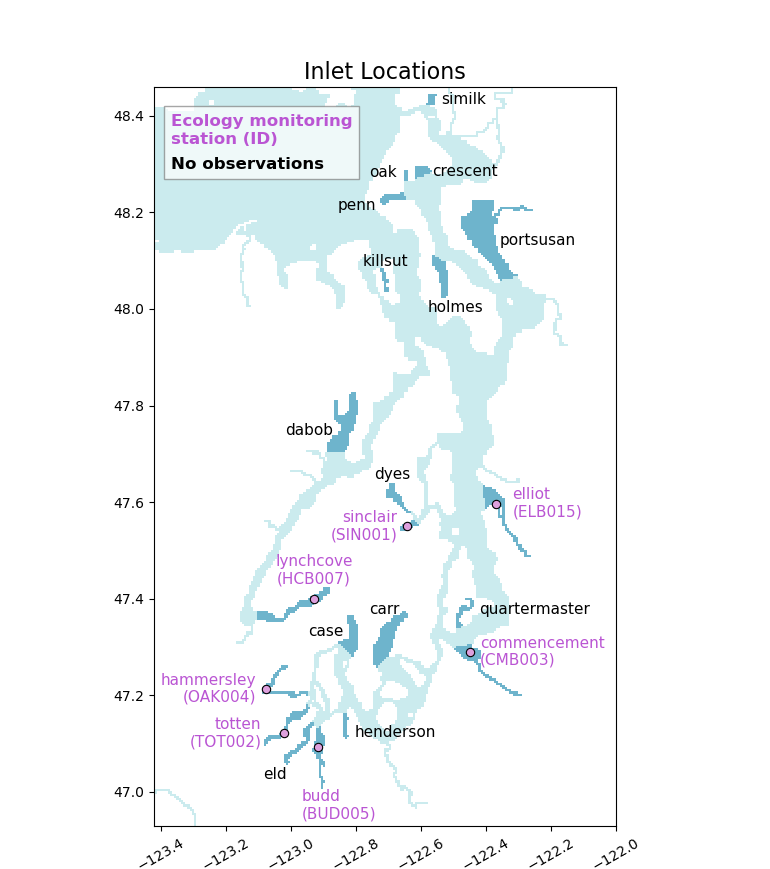
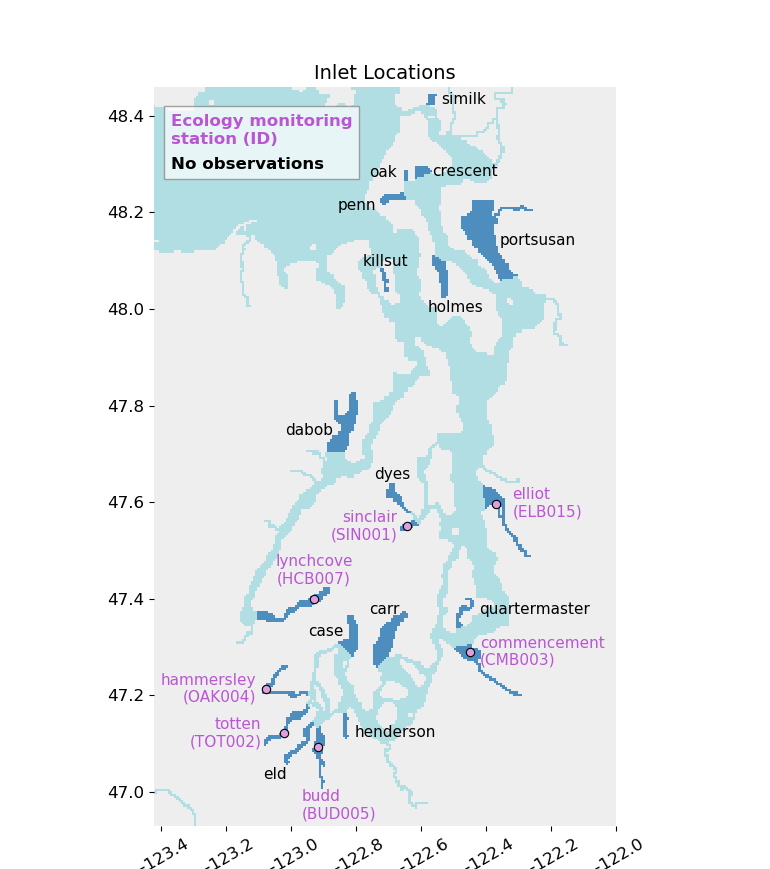
figures for thesis

diff --git a/plotting/2014_2019_DO/Puget_Sound_volume.py b/plotting/2014_2019_DO/Puget_Sound_volume.py
@@ -1,0 +1,88 @@
+
+# import things
+from subprocess import Popen as Po
+from subprocess import PIPE as Pi
+from matplotlib.markers import MarkerStyle
+import matplotlib.dates as mdates
+import numpy as np
+import xarray as xr
+import csv
+from datetime import datetime, timedelta
+from matplotlib.dates import DateFormatter
+from matplotlib.dates import MonthLocator
+import matplotlib.patches as patches
+from matplotlib.offsetbox import (OffsetImage, AnnotationBbox)
+import matplotlib.image as image
+import pandas as pd
+import cmocean
+import matplotlib.pylab as plt
+from mpl_toolkits.axes_grid1 import make_axes_locatable
+import matplotlib.patheffects as PathEffects
+import pinfo
+
+from lo_tools import Lfun, zfun, zrfun
+from lo_tools import plotting_functions as pfun
+
+import sys
+from pathlib import Path
+pth = Path(__file__).absolute().parent.parent.parent.parent / 'LO' / 'pgrid'
+if str(pth) not in sys.path:
+    sys.path.append(str(pth))
+import gfun
+
+Gr = gfun.gstart()
+
+Ldir = Lfun.Lstart()
+
+##############################################################
+##                       USER INPUTS                        ##
+##############################################################
+
+remove_straits = True
+
+# which  model run to look at?
+gtagex = 'cas7_t0_x4b' # long hindcast (anthropogenic)
+
+##############################################################
+##              CALCULATE PUGET SOUND VOLUME                ##
+##############################################################
+
+# get percent hypoxic volume
+fp = Ldir['LOo'] / 'extract' / gtagex / 'box' / ('pugetsoundDO_2013.01.01_2013.12.31.nc')
+ds = xr.open_dataset(fp)
+if remove_straits:
+        print('    Removing Straits...')
+        lat_threshold = 48.14
+        lon_threshold = -122.76
+        # Create a mask for latitudes and longitudes in the Straits
+        mask = (ds['lat_rho'] > lat_threshold) & (ds['lon_rho'] < lon_threshold)
+        # Expand mask dimensions to match 'oxygen' dimensions
+        expanded_mask = mask.expand_dims(ocean_time=len(ds['ocean_time']), s_rho=len(ds['s_rho']))
+        # Apply the mask to the 'oxygen' variable
+        ds['z_w'] = xr.where(expanded_mask, np.nan, ds['z_w'])
+        ds['pm'] = xr.where(expanded_mask, np.nan, ds['pm'])
+        ds['pn'] = xr.where(expanded_mask, np.nan, ds['pn'])
+print('calculating vertical thickness')
+# get S for the whole grid
+Sfp = Ldir['data'] / 'grids' / 'cas7' / 'S_COORDINATE_INFO.csv'
+reader = csv.DictReader(open(Sfp))
+S_dict = {}
+for row in reader:
+    S_dict[row['ITEMS']] = row['VALUES']
+S = zrfun.get_S(S_dict)
+# get cell thickness
+h = ds['h'].values # height of water column
+z_rho, z_w = zrfun.get_z(h, 0*h, S) 
+dzr = np.diff(z_w, axis=0) # vertical thickness of all cells [m]
+print(dzr.shape)
+
+DZ = dzr/1000
+DX = (ds.pm.values)**-1
+DY = (ds.pn.values)**-1
+DA = DX*DY*(1/1000)*(1/1000) # get area, but convert from m^2 to km^2
+
+# calculate volume of Puget Sound
+print('Puget Sound volume with straits omitted [km^3]')
+vol_timeseries = np.sum(DZ * DA, axis=(1, 2))
+vol = np.nanmean(vol_timeseries)
+print(vol)

diff --git a/plotting/model_bathymetry.py b/plotting/model_bathymetry.py
@@ -6,6 +6,7 @@ import numpy as np
 import matplotlib.pyplot as plt
 from matplotlib.patches import Rectangle
 import xarray as xr
+from matplotlib.ticker import MaxNLocator
 import cmocean
 from lo_tools import Lfun, zfun, zrfun
 from lo_tools import plotting_functions as pfun
@@ -43,7 +44,7 @@ zm[np.transpose(mask_rho) == 0] = np.nan
 # Initialize figure
 plt.close('all')
 fs = 10
-pfun.start_plot(fs=fs, figsize=(10,7))
+pfun.start_plot(fs=fs, figsize=(11,7))
 fig = plt.figure()
 plt.subplots_adjust(wspace=0, hspace=0)
 # create colormap
@@ -60,12 +61,12 @@ newcmap.set_bad(background,1.) # background color
 ax0 = fig.add_subplot(1,2,1)
 # cs = ax0.pcolormesh(plon, plat, zm, vmin=-5, vmax=0, cmap=newcmap)
 cs = ax0.pcolormesh(plon, plat, zm, vmin=-500, vmax=0, cmap=newcmap)
-cbar = plt.colorbar(cs,ax=ax0, location='left', pad=0.05)
-cbar.ax.tick_params(labelsize=11, color='#EEEEEE')#, rotation=30)
-cbar.ax.set_ylabel('Depth [m]', fontsize=11, color='#EEEEEE')
+cbar = plt.colorbar(cs,ax=ax0, location='left', pad=0.1)#pad=0.05)
+cbar.ax.tick_params(labelsize=11)#, color='#EEEEEE')#, rotation=30)
+cbar.ax.set_ylabel('Depth [m]', fontsize=11)#, color='#EEEEEE')
 cbar.outline.set_visible(False)
 cbar_yticks = plt.getp(cbar.ax.axes, 'yticklabels')
-plt.setp(cbar_yticks, color='#EEEEEE')
+plt.setp(cbar_yticks)#, color='#EEEEEE')
 # format figure
 pfun.dar(ax0)
 # pfun.add_coast(ax0, color='gray')
@@ -79,11 +80,15 @@ print('Lon={},{}'.format(X[i1],-122))
 print('Lat={},{}'.format(Y[j1],Y[j2]))
 
 # plt.xticks(rotation=30, color='gray')
+plt.xticks(rotation=30,horizontalalignment='right',color='gray',fontsize=12)
+plt.yticks(color='gray',fontsize=12)
+ax0.xaxis.set_major_locator(MaxNLocator(integer=True))
+ax0.yaxis.set_major_locator(MaxNLocator(integer=True))
 # plt.yticks(color='gray')
-ax0.set_yticklabels([])
-ax0.set_xticklabels([])
+# ax0.set_yticklabels([])
+# ax0.set_xticklabels([])
 # add title
-ax0.set_title('Salish Sea',fontsize=16,color='#EEEEEE')
+ax0.set_title('(a) Salish Sea',fontsize=14, loc='left')#,color='#EEEEEE')
 # add 10 km bar
 lat0 = 47
 lon0 = -124.63175
@@ -96,24 +101,24 @@ ax0.text((lon0+lon1)/2,lat0+0.05,'{} km'.format(x_dist_km),color='k',fontsize=12
          horizontalalignment='center')
 # draw box around Puget Sound
 bordercolor = '#EEEEEE'
-ax0.add_patch(Rectangle((-123.2, 46.93), 1.1, 1.52,
+ax0.add_patch(Rectangle((-123.3, 46.93), 1.2, 1.52,
              edgecolor = bordercolor, facecolor='none', lw=2))
 
 # add major cities
 # Seattle
-ax0.scatter([-122.3328],[47.6061],s=[250],color='lightpink',
+ax0.scatter([-122.3328],[47.6061],s=[250],color='pink',
             marker='*',edgecolors='darkred')
-ax0.text(-122.3328 + 0.1,47.6061,'Seattle',color='lightpink', rotation=90,
+ax0.text(-122.3328 + 0.1,47.6061,'Seattle',color='pink', rotation=90,
          horizontalalignment='left',verticalalignment='center', size=12)
 # Vancouver
-ax0.scatter([-123.1207],[49.2827],s=[250],color='lightpink',
+ax0.scatter([-123.1207],[49.2827],s=[250],color='pink',
             marker='*',edgecolors='darkred')
-ax0.text(-123.1207 + 0.1,49.2827,'Vancouver',color='lightpink', rotation=0,
+ax0.text(-123.1207 + 0.1,49.2827,'Vancouver',color='pink', rotation=0,
          horizontalalignment='left',verticalalignment='center', size=12)
 
 # add major water bodies
-ax0.text(-124.937095,47.827238,'Pacific Ocean',color='black', rotation=-75,
-         horizontalalignment='left',verticalalignment='center', size=12)
+ax0.text(-124.937095,47.782238,'Pacific Ocean',color='black', rotation=-75,
+         horizontalalignment='left',verticalalignment='center', size=12,fontweight='bold')
 
 # Puget Sound ----------------------------------------------------------
 ax1 = fig.add_subplot(1,2,2)
@@ -125,11 +130,11 @@ ax1 = fig.add_subplot(1,2,2)
 # cs = ax1.pcolormesh(plon, plat, zm, vmin=-5, vmax=0, cmap=newcmap)
 cs = ax1.pcolormesh(plon, plat, zm, vmin=-250, vmax=0, cmap=newcmap)
 cbar = plt.colorbar(cs,ax=ax1, location='right', pad=0.05)
-cbar.ax.tick_params(labelsize=11, color='#EEEEEE')#, rotation=30)
-cbar.ax.set_ylabel('Depth [m]', fontsize=11, color='#EEEEEE')
+cbar.ax.tick_params(labelsize=11)#, color='#EEEEEE')#, rotation=30)
+cbar.ax.set_ylabel('Depth [m]', fontsize=11)#, color='#EEEEEE')
 cbar.outline.set_visible(False)
 cbar_yticks = plt.getp(cbar.ax.axes, 'yticklabels')
-plt.setp(cbar_yticks, color='#EEEEEE')
+plt.setp(cbar_yticks)#, color='#EEEEEE')
 # format figure
 pfun.dar(ax1)
 # pfun.add_coast(ax1, color='gray')
@@ -142,10 +147,13 @@ ax1.set_xlim([-123.3,-122.1])
 ax1.set_ylim([46.93,48.45])
 ax1.set_yticklabels([])
 ax1.set_xticklabels([])
+# plt.xticks(rotation=30,horizontalalignment='right',color='gray')
+# ax1.xaxis.set_major_locator(MaxNLocator(integer=True))
+# ax1.yaxis.set_major_locator(MaxNLocator(integer=True))
 # plt.xticks(rotation=30, color='gray')
 # plt.yticks(color='gray')
 # add title
-ax1.set_title('Puget Sound',fontsize=16, color='#EEEEEE')
+ax1.set_title('(b) Puget Sound',fontsize=14,loc='left')# color='#EEEEEE')
 # add 10 km bar
 lat0 = 47
 lon0 = -123.2
@@ -158,4 +166,4 @@ ax1.text((lon0+lon1)/2,lat0+0.015,'{} km'.format(x_dist_km),color='w',fontsize=1
          horizontalalignment='center')
 
 plt.subplots_adjust(hspace = 0.01)
-plt.savefig(out_dir / ('model_bathy.png'),transparent='True')
+plt.savefig(out_dir / ('model_bathy.png'))#,transparent='True')

diff --git a/plotting/2014_2019_DO/budget_DO/make_terminalinlet_map.py b/plotting/2014_2019_DO/budget_DO/make_terminalinlet_map.py
@@ -44,10 +44,15 @@ zm[np.transpose(mask_rho) != 0] = -1
 plt.close('all')
 fig = plt.figure(figsize=(7.7,8.7))
 ax = fig.add_subplot(1,1,1)
-ax.tick_params(axis='both', labelsize=10)
+lon_low = -123.42
+lon_high =  -122
+lat_low = 46.93
+lat_high = 48.46
+ax.add_patch(Rectangle((lon_low, lat_low), lon_high-lon_low,lat_high-lat_low, facecolor='#EEEEEE'))
+ax.tick_params(axis='both', labelsize=12)
 plt.xticks(rotation=30)
 # plt.pcolormesh(plon, plat, zm, linewidth=0.5, vmin=-1.2, vmax=0, cmap=plt.get_cmap('Greys'))
-plt.pcolormesh(plon, plat, zm, vmin=-15, vmax=0, cmap=plt.get_cmap(cmocean.cm.ice))
+plt.pcolormesh(plon, plat, zm, vmin=-8, vmax=0, cmap=plt.get_cmap(cmocean.cm.ice))
 
 # get terminal inlet locations
 for stn,station in enumerate(sta_dict): # stations: 
@@ -64,19 +69,21 @@ for stn,station in enumerate(sta_dict): # stations:
     inlet_loc[jj,ii] = 20
     # add inlet locations
     # plt.pcolormesh(plon, plat, inlet_loc, linewidth=0.5, vmin=0, vmax=65, cmap=plt.get_cmap('coolwarm'))
-    plt.pcolormesh(plon, plat, inlet_loc, linewidth=0.5, vmin=0, vmax=28, cmap=plt.get_cmap(cmocean.cm.ice))
+    plt.pcolormesh(plon, plat, inlet_loc, linewidth=0.5, vmin=0, vmax=35, cmap=plt.get_cmap(cmocean.cm.ice))
 
 # format
 # ax.axes.xaxis.set_visible(False)
 # ax.axes.yaxis.set_visible(False)
-ax.set_xlim(-123.42, -122) # Puget Sound
-ax.set_ylim(46.93, 48.46) # Puget Sound
+# ax.set_xlim(-123.42, -122) # Puget Sound
+# ax.set_ylim(46.93, 48.46) # Puget Sound
+ax.set_xlim(lon_low, lon_high) # Puget Sound
+ax.set_ylim(lat_low, lat_high) # Puget Sound
 
 pfun.dar(ax)
 
-# # remove border
-# for border in ['top','right','bottom','left']:
-#     ax.spines[border].set_visible(False)
+# remove border
+for border in ['top','right','bottom','left']:
+    ax.spines[border].set_visible(False)
 
 ##########################################################
 ##                 Plot station locations               ##
@@ -152,8 +159,8 @@ ax.add_patch(Rectangle((-123.39, 48.27), 0.6,0.15, facecolor='white',alpha=0.7,e
 ax.text(-123.37,48.37,'Ecology monitoring\nstation (ID)',va='center',ha='left',fontweight='bold',color='mediumorchid',fontsize = 12)
 ax.text(-123.37,48.3,'No observations',va='center',ha='left',fontweight='bold',color='k',fontsize = 12)
 
-plt.title('Inlet Locations',fontsize = 16)
-fig.tight_layout
+plt.title('Inlet Locations',fontsize = 14)
+plt.tight_layout()
 
 
 # where to put output figures

diff --git a/plotting/2014_2019_DO/hypoxic_days_and_volume.py b/plotting/2014_2019_DO/hypoxic_days_and_volume.py
@@ -11,6 +11,7 @@ from matplotlib.markers import MarkerStyle
 import matplotlib.dates as mdates
 import numpy as np
 import xarray as xr
+import csv
 from datetime import datetime, timedelta
 from matplotlib.dates import DateFormatter
 from matplotlib.dates import MonthLocator
@@ -47,7 +48,7 @@ Ldir = Lfun.Lstart()
 DO_thresh = 2 # [mg/L]
 
 # Show WWTP locations?
-WWTP_loc = True
+WWTP_loc = False
 
 remove_straits = True
 
@@ -297,7 +298,7 @@ for i,year in enumerate(['avg'] + years):
             plt.setp(legend.get_title(),fontsize=20)
 
         # add 10 km bar
-        lat0 = 46.94
+        lat0 = 47.0
         lon0 = -123.05
         lat1 = lat0
         lon1 = -122.91825
@@ -335,7 +336,7 @@ for i,year in enumerate(['avg'] + years):
                                 
 # Add colormap title
 plt.suptitle('Days with bottom DO < {} [mg/L]'.format(str(DO_thresh)),
-            fontsize=44, fontweight='bold', y=0.95)
+            fontsize=36, y=0.95)
 
 # Generate plot
 plt.tight_layout
@@ -439,10 +440,16 @@ for i,year in enumerate(years):
     # plot hypoxic area timeseries
     # ax1.plot(dates_local,hyp_vol[year],color=colors[i],
     #          linewidth=3,alpha=0.5,label=year)
-    ax1.plot(dates_local,hyp_vol[year],color='white',
-             linewidth=3.5)
-    ax1.plot(dates_local,hyp_vol[year],color=colors[i],
-             linewidth=3,label=year)
+    if year == '2017':
+        ax1.plot(dates_local,hyp_vol[year],color='white',
+                linewidth=4,zorder=4)
+        ax1.plot(dates_local,hyp_vol[year],color='black',
+                linewidth=3.5,label=year,zorder=4)
+    else:
+        ax1.plot(dates_local,hyp_vol[year],color='white',
+                linewidth=2.5)
+        ax1.plot(dates_local,hyp_vol[year],color=colors[i],
+                linewidth=2,label=year)
 
 # format figure
 ax1.grid(visible=True, color='w')

diff --git a/plotting/2014_2019_DO/hypoxic_season_avgDOmap.py b/plotting/2014_2019_DO/hypoxic_season_avgDOmap.py
@@ -43,7 +43,7 @@ Ldir = Lfun.Lstart()
 ##############################################################
 
 # Show WWTP locations?
-WWTP_loc = True
+WWTP_loc = False
 
 remove_straits = False
 
@@ -244,7 +244,7 @@ if WWTP_loc == True:
     plt.setp(legend.get_title(),fontsize=20)
 
 # add 10 km bar
-lat0 = 46.94
+lat0 = 47.0
 lon0 = -123.05
 lat1 = lat0
 lon1 = -122.91825
@@ -292,8 +292,8 @@ for j,year in enumerate(years):
     ax.set_title(letters[i] + ' ' + year + ' - avg', fontsize=28, loc = 'left')
                                 
 # Add colormap title
-plt.suptitle(start+' to '+end+' average ' + stext + ' ' + vn + ' ' + units,
-            fontsize=44, fontweight='bold', y=0.95)
+plt.suptitle(start+' to '+end+' average ' + stext + ' ' + vn + ' [mg/L]',
+            fontsize=36, y=0.95)
 
 # Generate plot
 plt.tight_layout

diff --git a/plotting/2014_2019_DO/budget_DO/plot_budget_TEF_21INLET.py b/plotting/2014_2019_DO/budget_DO/plot_budget_TEF_21INLET.py
@@ -2605,11 +2605,14 @@ for i,station in enumerate(sta_dict):
     deep_lay_DO = zfun.lowpass(deep_lay_DO.values,n=30)
 
     # plot DO colored by flushing time
-    ax.plot(dates_local_daily,deep_lay_DO,linewidth=3.5,color='black', alpha=0.8)
-    ax.plot(dates_local_daily,deep_lay_DO,linewidth=1.7,color='silver')
+    # ax.plot(dates_local_daily,deep_lay_DO,linewidth=3.5,color='black', alpha=0.8)
+    # ax.plot(dates_local_daily,deep_lay_DO,linewidth=1.7,color='silver')
+
+    ax.plot(dates_local_daily,deep_lay_DO,linewidth=1,color='black',alpha=0.5)
 
 # format labels
 ax.set_xlim([dates_local[0],dates_local[-2]])
+ax.set_ylim([0,12])
 ax.set_ylabel(r'DO$_{deep}$ [mg/L]',fontsize=12)
 
 plt.show()